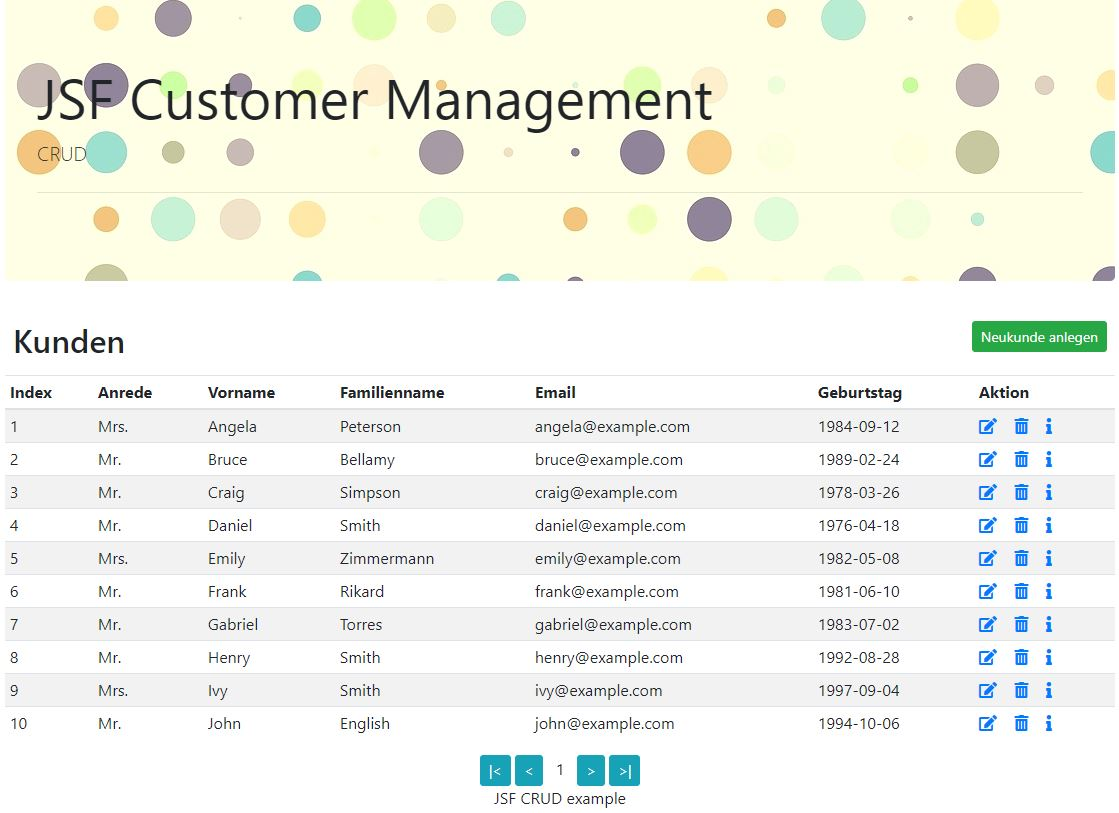
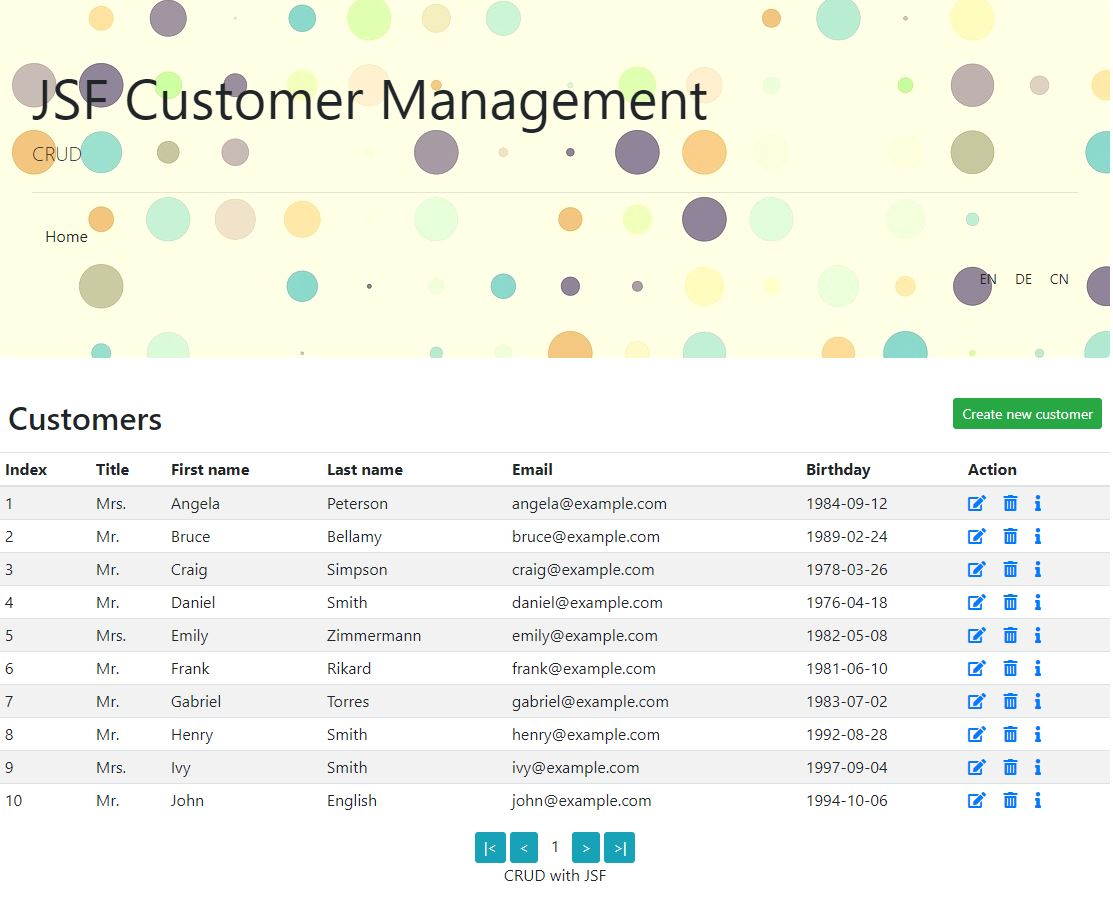
Improced translation

diff --git a/jsf-webapp/src/main/java/com/example/webapp/utils/NoCacheFilter.java b/jsf-webapp/src/main/java/com/example/webapp/utils/NoCacheFilter.java
@@ -1,0 +1,47 @@
+package com.example.webapp.utils;
+
+import java.io.IOException;
+
+import javax.faces.application.ResourceHandler;
+import javax.servlet.Filter;
+import javax.servlet.FilterChain;
+import javax.servlet.FilterConfig;
+import javax.servlet.ServletException;
+import javax.servlet.ServletRequest;
+import javax.servlet.ServletResponse;
+import javax.servlet.annotation.WebFilter;
+import javax.servlet.http.HttpServletRequest;
+import javax.servlet.http.HttpServletResponse;
+
+/**
+ * To instruct the browser to not cache the dynamic JSF pages, create a Filter which is mapped on the 
+ * servlet name of the FacesServlet and adds the needed response headers to disable the browser cache. 
+ * https://stackoverflow.com/questions/3642919/javax-faces-application-viewexpiredexception-view-could-not-be-restored
+ */
+@WebFilter(servletNames = { "Faces Servlet" }) // Must match <servlet-name> of your FacesServlet.
+public class NoCacheFilter implements Filter {
+
+    @Override
+    public void doFilter(ServletRequest request, ServletResponse response, FilterChain chain) throws IOException, ServletException {
+        HttpServletRequest req = (HttpServletRequest) request;
+        HttpServletResponse res = (HttpServletResponse) response;
+
+        if (!req.getRequestURI().startsWith(req.getContextPath() + ResourceHandler.RESOURCE_IDENTIFIER)) { // Skip JSF
+                                                                                                           // resources
+                                                                                                           // (CSS/JS/Images/etc)
+            res.setHeader("Cache-Control", "no-cache, no-store, must-revalidate"); // HTTP 1.1.
+            res.setHeader("Pragma", "no-cache"); // HTTP 1.0.
+            res.setDateHeader("Expires", 0); // Proxies.
+        }
+
+        chain.doFilter(request, response);
+    }
+
+    @Override
+    public void init(FilterConfig filterConfig) throws ServletException {
+    }
+
+    @Override
+    public void destroy() {
+    }
+}

diff --git a/jsf-webapp/src/main/java/com/example/webapp/controller/CustomerController.java b/jsf-webapp/src/main/java/com/example/webapp/controller/CustomerController.java
@@ -7,6 +7,7 @@ import java.util.Calendar;
 import java.util.Date;
 import java.util.LinkedHashMap;
 import java.util.List;
+import java.util.Locale;
 import java.util.Map;
 import java.util.logging.Logger;
 
@@ -78,12 +79,19 @@ public class CustomerController implements Serializable {
         }
     }
 
-    public void findCustomerById() {
+    /**
+     * bean method used in <f:viewAction> should be of the form
+     * <code> public Object method() </code>
+     * @return
+     */
+    public String findCustomerById() {
+        System.out.println("findCustomerById");
         customer = customerService.findById(id);
 
         if (customer != null) {
             setBirthDateToFormFields(customer.getBirthDate());
         }
+        return null;
     }
 
     public String cancel() {
@@ -196,10 +204,12 @@ public class CustomerController implements Serializable {
     }
 
     public Map<String, Integer> getMonthsOfTheYear() {
-        final DateFormatSymbols symbols = new DateFormatSymbols(FacesContext.getCurrentInstance().getViewRoot().getLocale());
+        final Locale currentLocale = FacesContext.getCurrentInstance().getViewRoot().getLocale();
+        final DateFormatSymbols symbols = DateFormatSymbols.getInstance(currentLocale);
+
         Map<String, Integer> monthsOfTheYear = new LinkedHashMap<>();
-        for (int m = 1; m <= 12; ++m) {
-            monthsOfTheYear.put(symbols.getMonths()[m - 1], m - 1);
+        for (int m = 0; m < 12; ++m) {
+            monthsOfTheYear.put(symbols.getMonths()[m], m);
         }
         return monthsOfTheYear;
     }

diff --git a/jsf-webapp/src/main/java/com/example/webapp/utils/DebugPhaseListener.java b/jsf-webapp/src/main/java/com/example/webapp/utils/DebugPhaseListener.java
@@ -1,0 +1,24 @@
+package com.example.webapp.utils;
+
+import javax.faces.event.PhaseEvent;
+import javax.faces.event.PhaseId;
+import javax.faces.event.PhaseListener;
+
+public class DebugPhaseListener implements PhaseListener {
+    private static final long serialVersionUID = 1L;
+
+    @Override
+    public void afterPhase(PhaseEvent event) {
+        System.out.println("After Phase: " + event.getPhaseId());
+    }
+
+    @Override
+    public void beforePhase(PhaseEvent event) {
+        System.out.println("Before Phase: " + event.getPhaseId());
+    }
+
+    @Override
+    public PhaseId getPhaseId() {
+        return PhaseId.ANY_PHASE;
+    }
+}

diff --git a/jsf-webapp/README.md b/jsf-webapp/README.md
@@ -52,3 +52,30 @@ View parameter: id (of the customer to be removed)
     <f:viewAction action="#{customerController.findCustomerById()}"/>
 </f:metadata>
 ```
+
+# Convert message resources from UTF-8 to ASCII
+
+
+```
+native2ascii -encoding UTF-8 src\main\resources\com\example\webapp\i18n\messages_cn.utf8.properties src\main\resources\com\example\webapp\i18n\messages_cn.properties
+```
+
+```
+native2ascii - Native-to-ASCII Converter
+Converts a file with characters in any supported character encoding to one with ASCII and/or Unicode escapes, or visa versa.
+SYNOPSIS
+native2ascii [options] [inputfile [outputfile]]
+DESCRIPTION
+native2ascii converts files that are encoded to any character encoding that is supported by the Java runtime environment to files encoded in ASCII, using Unicode escapes ("\uxxxx" notation) for all characters that are not part of the ASCII character set. This process is required for properties files containing characters not in ISO-8859-1 character sets. The tool can also perform the reverse conversion.
+If outputfile is omitted, standard output is used for output. If, in addition, inputfile is omitted, standard input is used for input.
+
+OPTIONS
+-reverse
+Perform the reverse operation: Convert a file encoded in ISO-8859-1 with Unicode escapes to a file in any character encoding supported by the Java runtime environment.
+
+-encoding encoding_name
+Specifies the name of the character encoding to be used by the conversion procedure. If this option is not present, the default character encoding (as determined by the java.nio.charset.Charset.defaultCharset method) is used. The encoding_name string must be the name of a character encoding that is supported by the Java runtime environment - see the Supported Encodings document.
+
+-Joption
+Pass option to the Java virtual machine, where option is one of the options described on the reference page for the java application launcher. For example, -J-Xms48m sets the startup memory to 48 megabytes.
+```
